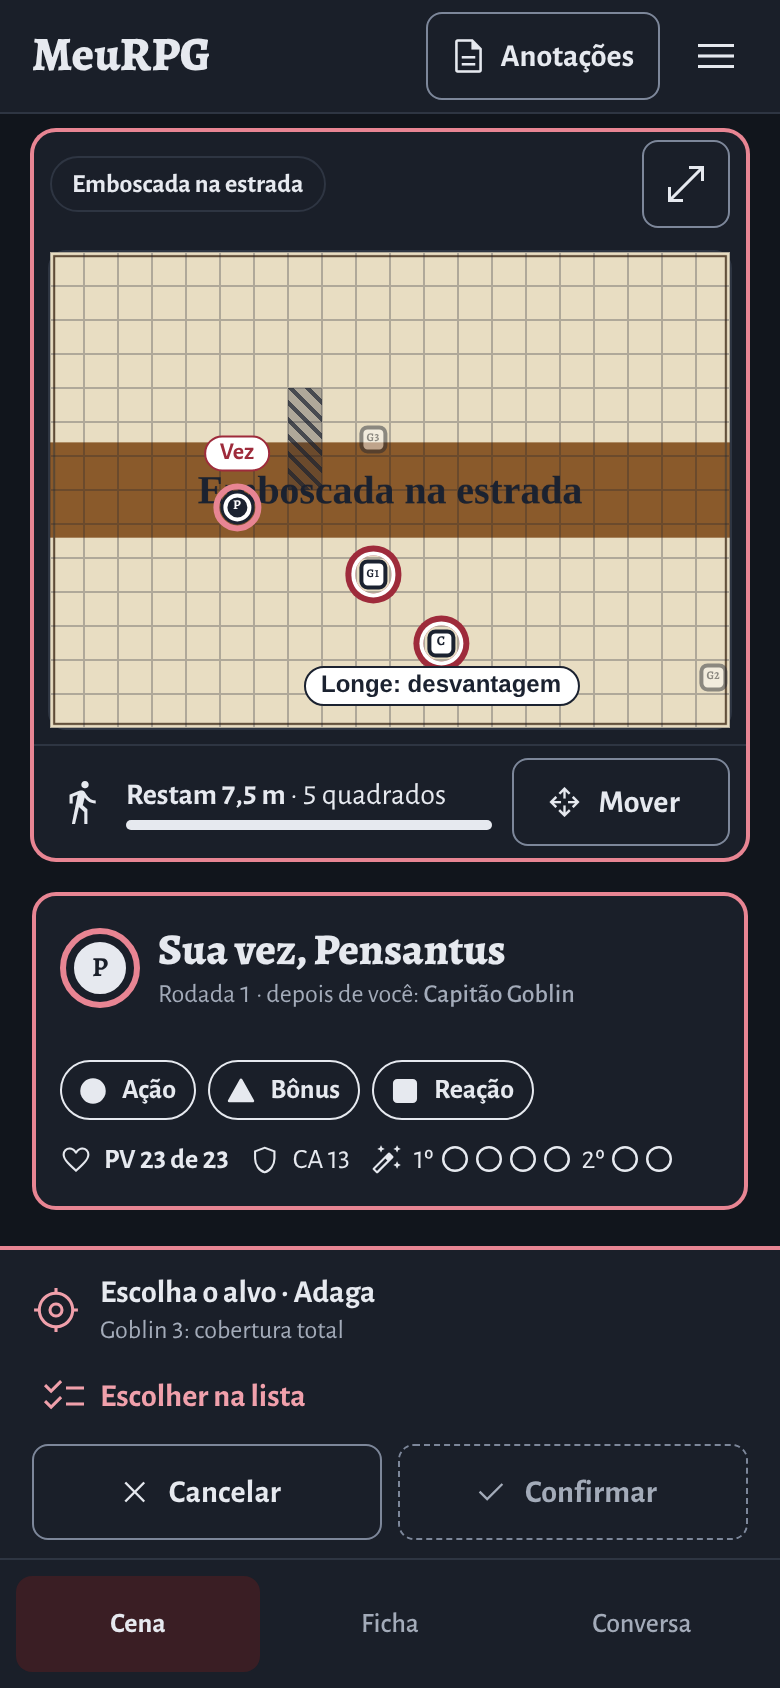
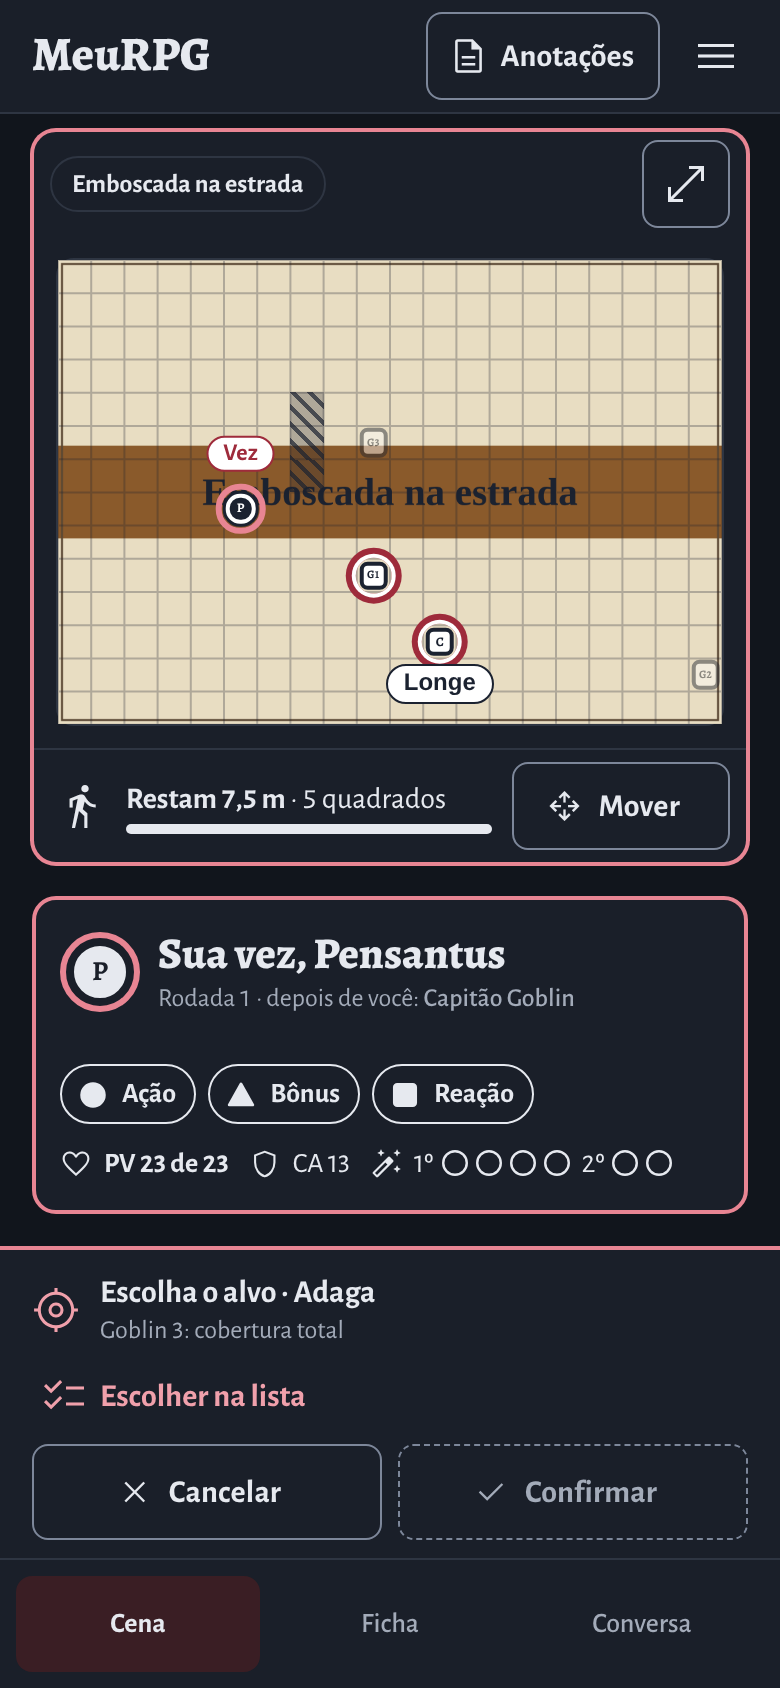
docs(screenshots): the player's combat, fifth round (edge gutter, focus clearance, Longe chip) on 66230e8d2
Claude-Session: https://claude.ai/code/session_01RzowEDZuTmPzAXAp9dZCZJ

Changed region(s): [[0.0308, 0.1232, 0.9538, 0.7393]]

diff --git a/compact-player-combat/README.md b/compact-player-combat/README.md
@@ -1,4 +1,4 @@
-# Combate do jogador, telas compactas (quarta rodada: os estados afetados e uma amostra foram refeitos em 450b56661; o restante e da terceira rodada, 109994a90)
+# Combate do jogador, telas compactas (quinta rodada: alcance, fire-bolt, cobertura, misseis e antes-de-rolar a 320/390 e pensantus-turno-acoes-390-escuro refeitos em 66230e8d2; quarta rodada: os estados afetados e uma amostra foram refeitos em 450b56661; o restante e da terceira rodada, 109994a90)
 
 Todas as capturas sao da **pilha real** (backend, devidp, CockroachDB e o app Angular compilado de `feat/compact-player-combat` @ 109994a90), semeada pelos helpers do e2e (Playwright, Chromium); **nenhuma e harness**. Claro/escuro por `prefers-color-scheme`. 320, 390 e 768 em 2x; 1280 em 1x.
 
